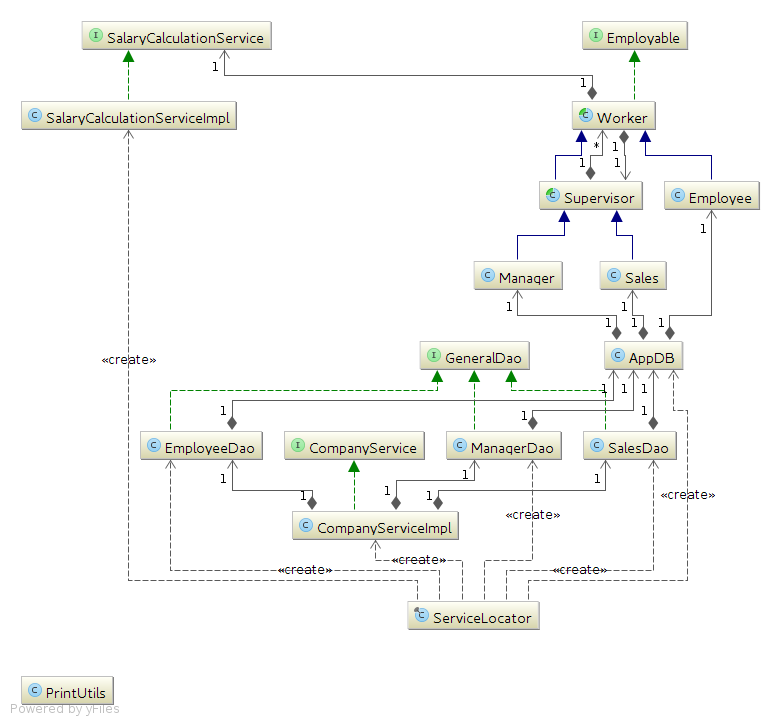
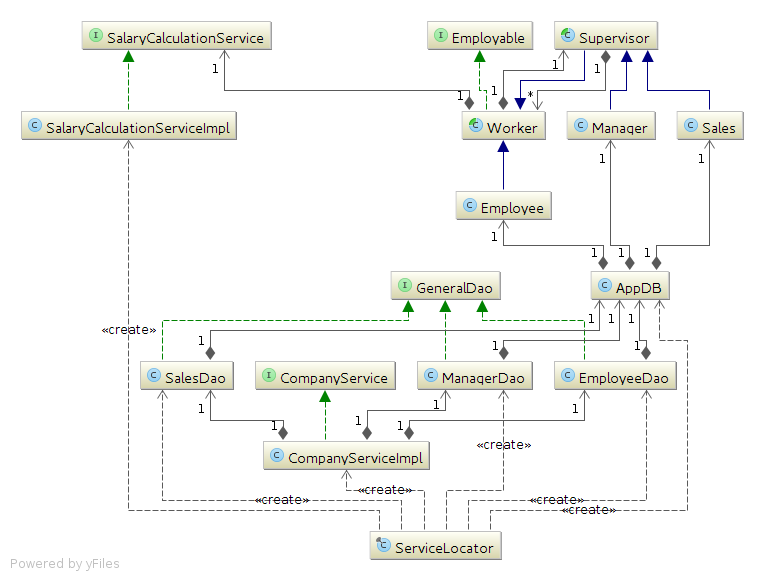
add properties holder, leave only one hierarhy-calculation method

diff --git a/src/main/java/com/aspose/company/model/Sales.java b/src/main/java/com/aspose/company/model/Sales.java
@@ -1,6 +1,7 @@
 package com.aspose.company.model;
 
 import com.aspose.company.utils.converter.DateUtils;
+import com.aspose.company.utils.file.PropertiesHolder;
 
 import java.util.Date;
 
@@ -9,9 +10,17 @@ import java.util.Date;
  */
 public class Sales extends Supervisor {
 
-    private static final double YEAR_BENEFIT_EXPERIENCE_PERCENT = 0.01;
-    private static final double BENEFIT_EXPERIENCE_LIMIT_PERCENT = 0.35;
-    private static final double HIERARCHY_SUBWORKER_BENEFIT_PERCENT = 0.003;
+    private static final double YEAR_BENEFIT_EXPERIENCE_PERCENT =
+            PropertiesHolder.getDoubleProperty("sales.year.benefit");
+
+    private static final double BENEFIT_EXPERIENCE_LIMIT_PERCENT =
+            PropertiesHolder.getDoubleProperty("sales.year.benefit.limit");
+
+    private static final double HIERARCHY_SUBWORKER_BENEFIT_PERCENT =
+            PropertiesHolder.getDoubleProperty("sales.subworkers.benefit");
+
+    private static final int HIERARCHY_LIMIT_LEVEL =
+            PropertiesHolder.getIntProperty("sales.consider.subworkers.level");
 
     public Sales(String name, int monthSalary, Date hireDate) {
         super(name, monthSalary, hireDate);
@@ -19,11 +28,12 @@ public class Sales extends Supervisor {
 
     @Override
     public int calculateSalary() {
-        double amountOfSubworkersSalary = getSalaryCalculationService().calculateTeamBenefitAllLevels(getSubWorkers());
+        double amountOfSubworkersSalary = getSalaryCalculationService().calculateTeamBenefitByLevel(getSubWorkers(),
+                HIERARCHY_LIMIT_LEVEL);
         int benefitFromSubworkers = (int) Math.round(amountOfSubworkersSalary * HIERARCHY_SUBWORKER_BENEFIT_PERCENT);
 
         int ownSalaryWithYearBenefits = getSalaryCalculationService().calculateYearBenefit(
-                getMonthSalary(), BENEFIT_EXPERIENCE_LIMIT_PERCENT, DateUtils.getDiffYears(getHireDate(), new Date()),
+                getMonthSalary(), YEAR_BENEFIT_EXPERIENCE_PERCENT, DateUtils.getDiffYears(getHireDate(), new Date()),
                 BENEFIT_EXPERIENCE_LIMIT_PERCENT);
 
         return ownSalaryWithYearBenefits + benefitFromSubworkers;

diff --git a/src/main/java/com/aspose/company/model/Manager.java b/src/main/java/com/aspose/company/model/Manager.java
@@ -1,6 +1,7 @@
 package com.aspose.company.model;
 
 import com.aspose.company.utils.converter.DateUtils;
+import com.aspose.company.utils.file.PropertiesHolder;
 
 import java.util.Date;
 
@@ -9,9 +10,17 @@ import java.util.Date;
  */
 public class Manager extends Supervisor {
 
-    private static final double YEAR_BENEFIT_PERCENT = 0.05;
-    private static final double BENEFIT_LIMIT_PERCENT = 0.40;
-    private static final double BENEFIT_FOR_SUBWORKERS_LIMIT_PERCENT = 0.005;
+    private static final double YEAR_BENEFIT_PERCENT =
+            PropertiesHolder.getDoubleProperty("manager.year.benefit");
+
+    private static final double BENEFIT_LIMIT_PERCENT =
+            PropertiesHolder.getDoubleProperty("manager.year.benefit.limit");
+
+    private static final double BENEFIT_FOR_SUBWORKERS_LIMIT_PERCENT =
+            PropertiesHolder.getDoubleProperty("manager.subworkers.benefit");
+
+    private static final int HIERARCHY_LIMIT_LEVEL =
+            PropertiesHolder.getIntProperty("manager.consider.subworkers.level");
 
     public Manager(String name, int monthSalary, Date hireDate) {
         super(name, monthSalary, hireDate);
@@ -19,7 +28,8 @@ public class Manager extends Supervisor {
 
     @Override
     public int calculateSalary() {
-        double amountOfSubworkersSalary = getSalaryCalculationService().calculateTeamBenefitByLevel(getSubWorkers(), 1);
+        double amountOfSubworkersSalary = getSalaryCalculationService().calculateTeamBenefitByLevel(getSubWorkers(),
+                HIERARCHY_LIMIT_LEVEL);
         int benefitFromSubworkers = (int) Math.round(amountOfSubworkersSalary * BENEFIT_FOR_SUBWORKERS_LIMIT_PERCENT);
 
         int ownSalaryWithYearBenefits = getSalaryCalculationService().calculateYearBenefit(

diff --git a/src/main/java/com/aspose/company/utils/file/PropertiesHolder.java b/src/main/java/com/aspose/company/utils/file/PropertiesHolder.java
@@ -1,0 +1,39 @@
+package com.aspose.company.utils.file;
+
+import com.aspose.company.exception.ConfigurationException;
+
+import java.io.IOException;
+import java.util.Properties;
+
+/**
+ * Created by serhii on 11/1/16.
+ */
+public final class PropertiesHolder {
+
+    private static final Properties PROPERTIES = load();
+
+    public static final String APP_PROPERTIES_PATH = "/app.properties";
+
+    private static Properties load() {
+        Properties properties = new Properties();
+        try {
+            properties.load(PropertiesHolder.class.getResourceAsStream(APP_PROPERTIES_PATH));
+        } catch (IOException e) {
+            e.printStackTrace();
+            throw new ConfigurationException(e.getMessage());
+        }
+        return properties;
+    }
+
+    public static String getProperty(String key) {
+        return PROPERTIES.getProperty(key);
+    }
+
+    public static double getDoubleProperty(String key){
+        return Double.parseDouble(PROPERTIES.getProperty(key));
+    }
+
+    public static int getIntProperty(String key){
+        return Integer.parseInt(PROPERTIES.getProperty(key));
+    }
+}

diff --git a/src/main/java/com/aspose/company/model/Employee.java b/src/main/java/com/aspose/company/model/Employee.java
@@ -2,6 +2,7 @@ package com.aspose.company.model;
 
 import com.aspose.company.utils.calculation.SalaryCalculationService;
 import com.aspose.company.utils.converter.DateUtils;
+import com.aspose.company.utils.file.PropertiesHolder;
 
 import java.util.Date;
 
@@ -10,8 +11,11 @@ import java.util.Date;
  */
 public class Employee extends Worker {
 
-    public static final double YEAR_BENEFIT_PERCENT = 0.03;
-    public static final double BENEFIT_LIMIT_PERCENT = 0.30;
+    public static final double YEAR_BENEFIT_PERCENT =
+            PropertiesHolder.getDoubleProperty("employee.year.benefit");
+
+    public static final double BENEFIT_LIMIT_PERCENT =
+            PropertiesHolder.getDoubleProperty("employee.year.benefit.limit");
 
     public Employee(String name, int monthSalary, Date hireDate) {
         super(name, monthSalary, hireDate);

diff --git a/src/main/java/com/aspose/company/utils/visualization/PrintUtils.java b/src/main/java/com/aspose/company/utils/visualization/PrintUtils.java
@@ -14,6 +14,36 @@ import java.util.List;
 public class PrintUtils {
 
     /**
+     * Expected
+     *
+     * Man
+     *  Sal
+     *      Sales
+     *          Man
+     *          Man
+     *      Sal
+     *      Sal
+     *  Man
+     *      Man
+     *          Sales
+     *          Man
+     *      Employee
+     *  Empl
+     *
+     * */
+    public static void main(String[] args) {
+        try {
+            Supervisor supervisor = DataGenerationUtils.buildTreeAndSave();
+            System.out.println(getTreeView(Arrays.asList(supervisor), -1, ""));
+        } catch (NoSupportedSubTypeException e) {
+            e.printStackTrace();
+        }
+
+
+
+    }
+
+    /**
      *
      *
      * @param level limit for tree view, if you pass <code>-1</code> then you will get all levels

diff --git a/src/main/java/com/aspose/company/utils/calculation/SalaryCalculationServiceImpl.java b/src/main/java/com/aspose/company/utils/calculation/SalaryCalculationServiceImpl.java
@@ -44,26 +44,6 @@ public class SalaryCalculationServiceImpl implements SalaryCalculationService {
     }
 
 
-    @Override
-    public int calculateTeamBenefitAllLevels(List<Worker> workerList) {
-
-        if(workerList == null || workerList.isEmpty()){
-            return 0;
-        }
-
-        int amount = 0;
-
-        for (Worker worker : workerList) {
-            amount += worker.calculateSalary();
-
-            if(worker instanceof Supervisor){
-                amount += calculateTeamBenefitAllLevels(((Supervisor) worker).getSubWorkers());
-            }
-        }
-
-        return amount;
-    }
-
 
 
 }

diff --git a/src/main/java/com/aspose/company/utils/calculation/SalaryCalculationService.java b/src/main/java/com/aspose/company/utils/calculation/SalaryCalculationService.java
@@ -11,7 +11,10 @@ public interface SalaryCalculationService {
 
     int calculateYearBenefit(int fixedSalary, double yearBenefitPercent, int fullYears, double limitOfYearBenefitPercent);
 
+    /**
+     * calculate benefits with level limitaion
+     *
+     * @param level limit a calculation level, if -1 we consider all hierarchy
+     * */
     int calculateTeamBenefitByLevel(List<Worker> root, int level);
-
-    int calculateTeamBenefitAllLevels(List<Worker> workerList);
 }

diff --git a/src/test/java/com/aspose/company/utils/calculation/SalaryCalculationServiceTest.java b/src/test/java/com/aspose/company/utils/calculation/SalaryCalculationServiceTest.java
@@ -159,7 +159,7 @@ public class SalaryCalculationServiceTest {
         * */
 
         Assert.assertThat("salaryWithHierarchyLevel1",
-                calculationService.calculateTeamBenefitAllLevels(Arrays.asList(root)), is(equalTo(27000)));
+                calculationService.calculateTeamBenefitByLevel(Arrays.asList(root), -1), is(equalTo(27000)));
     }
 
     /**

diff --git a/src/main/java/com/aspose/company/utils/generator/DataGenerationUtils.java b/src/main/java/com/aspose/company/utils/generator/DataGenerationUtils.java
@@ -27,7 +27,6 @@ public final class DataGenerationUtils {
         return atomicLong.getAndIncrement();
     }
 
-
     public static Supervisor buildTreeAndSave() throws NoSupportedSubTypeException {
 
         CompanyService companyService = ServiceLocator.getBean(CompanyService.class);

diff --git a/src/main/java/com/aspose/company/exception/ConfigurationException.java b/src/main/java/com/aspose/company/exception/ConfigurationException.java
@@ -1,0 +1,10 @@
+package com.aspose.company.exception;
+
+/**
+ * Created by serhii on 11/1/16.
+ */
+public class ConfigurationException extends RuntimeException {
+    public ConfigurationException(String message) {
+        super(message);
+    }
+}

diff --git a/src/main/java/com/aspose/company/utils/converter/DateUtils.java b/src/main/java/com/aspose/company/utils/converter/DateUtils.java
@@ -10,8 +10,7 @@ import java.util.Locale;
  */
 public final class DateUtils {
 
-    private DateUtils() {
-    }
+    private DateUtils() {}
 
     public static int getDiffYears(Date first, Date last) {
         Calendar a = getCalendar(first);
